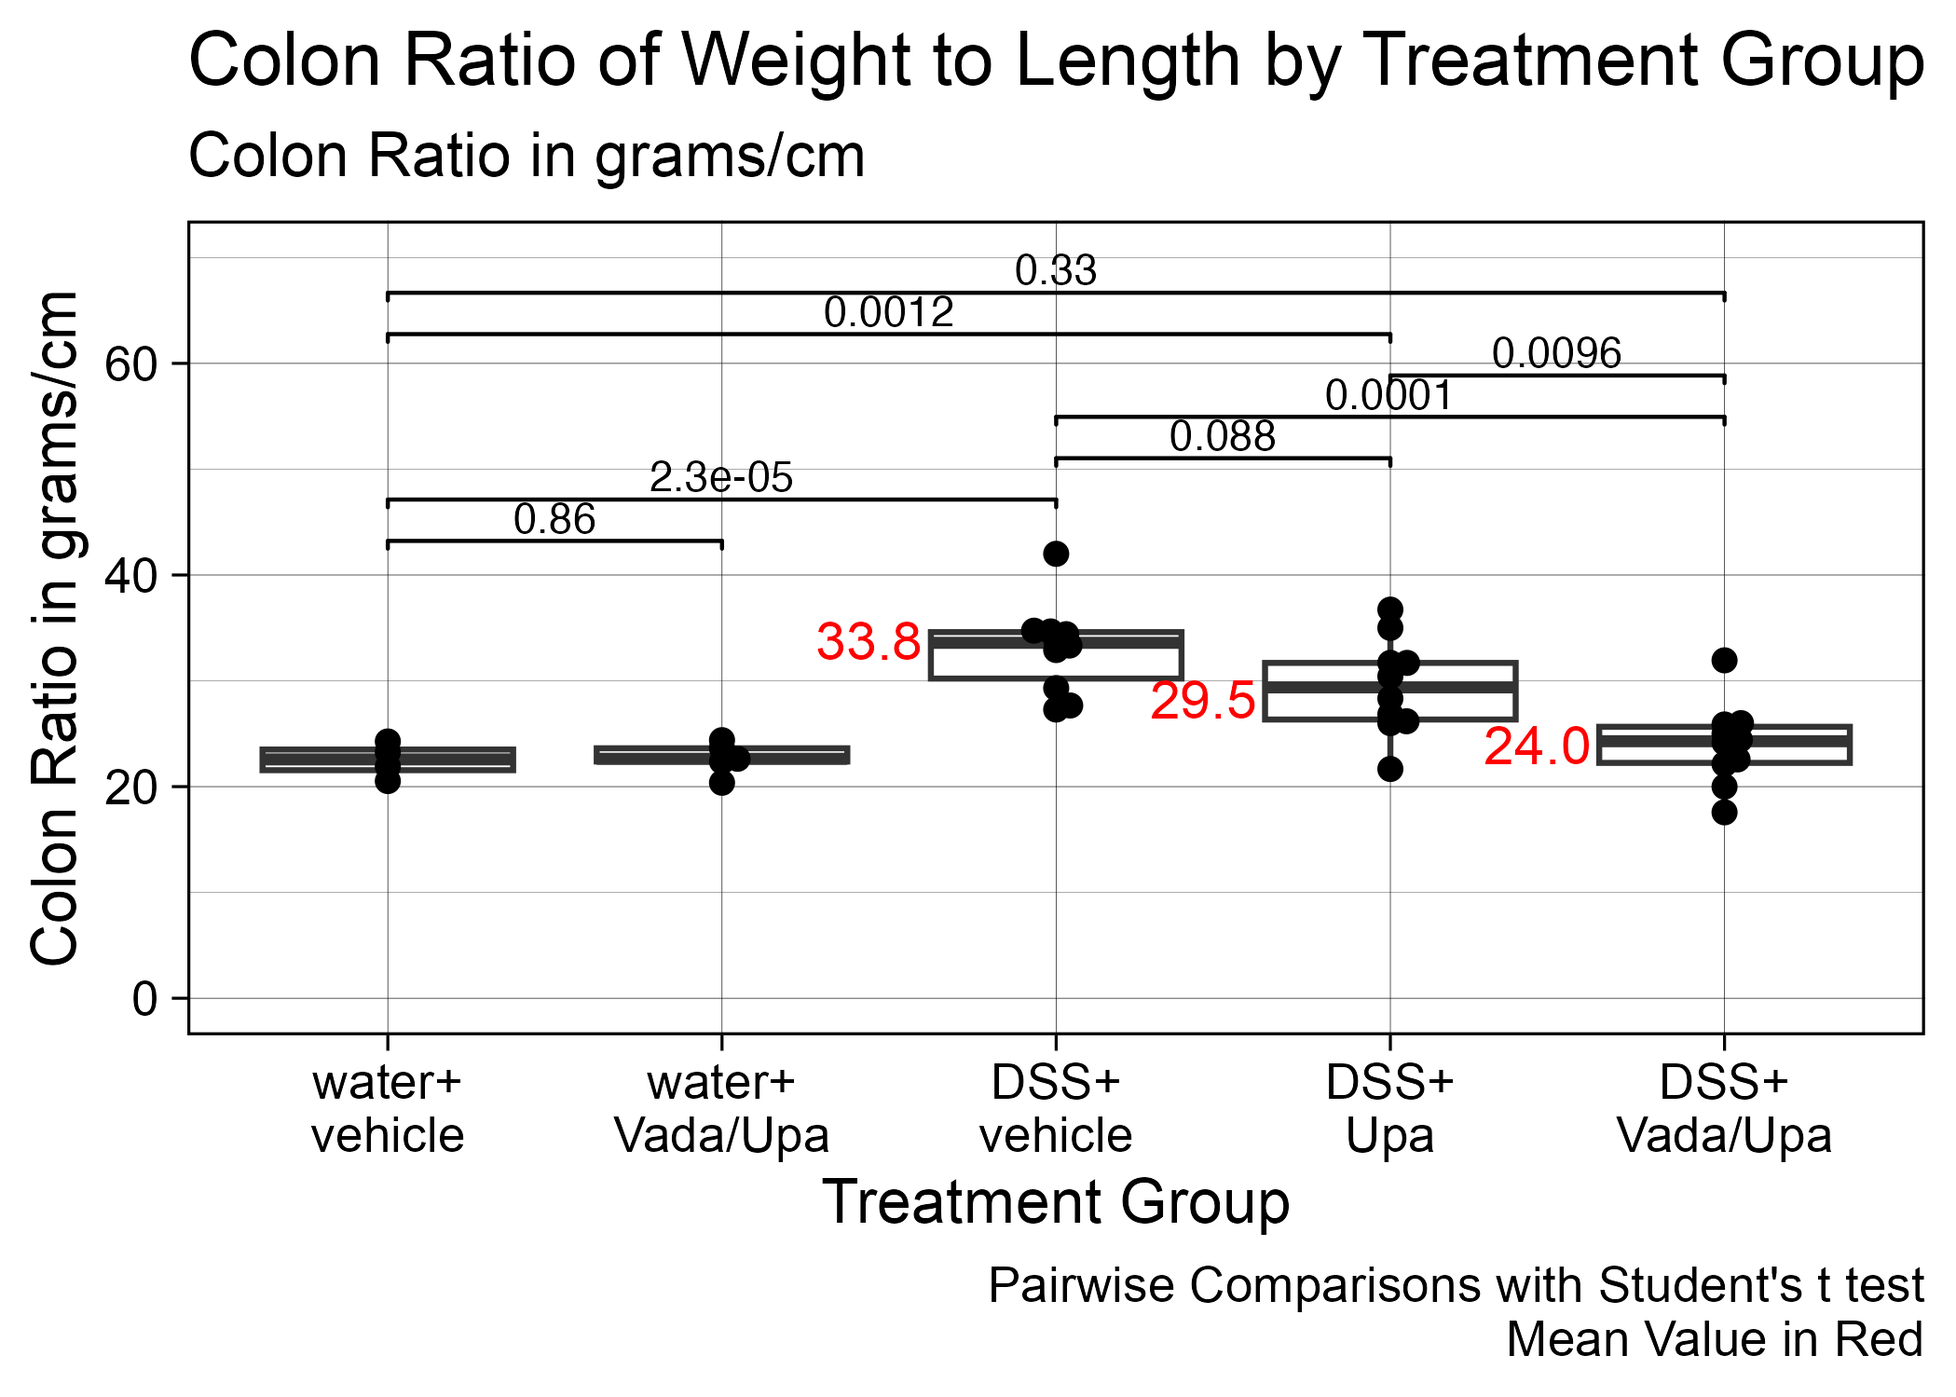
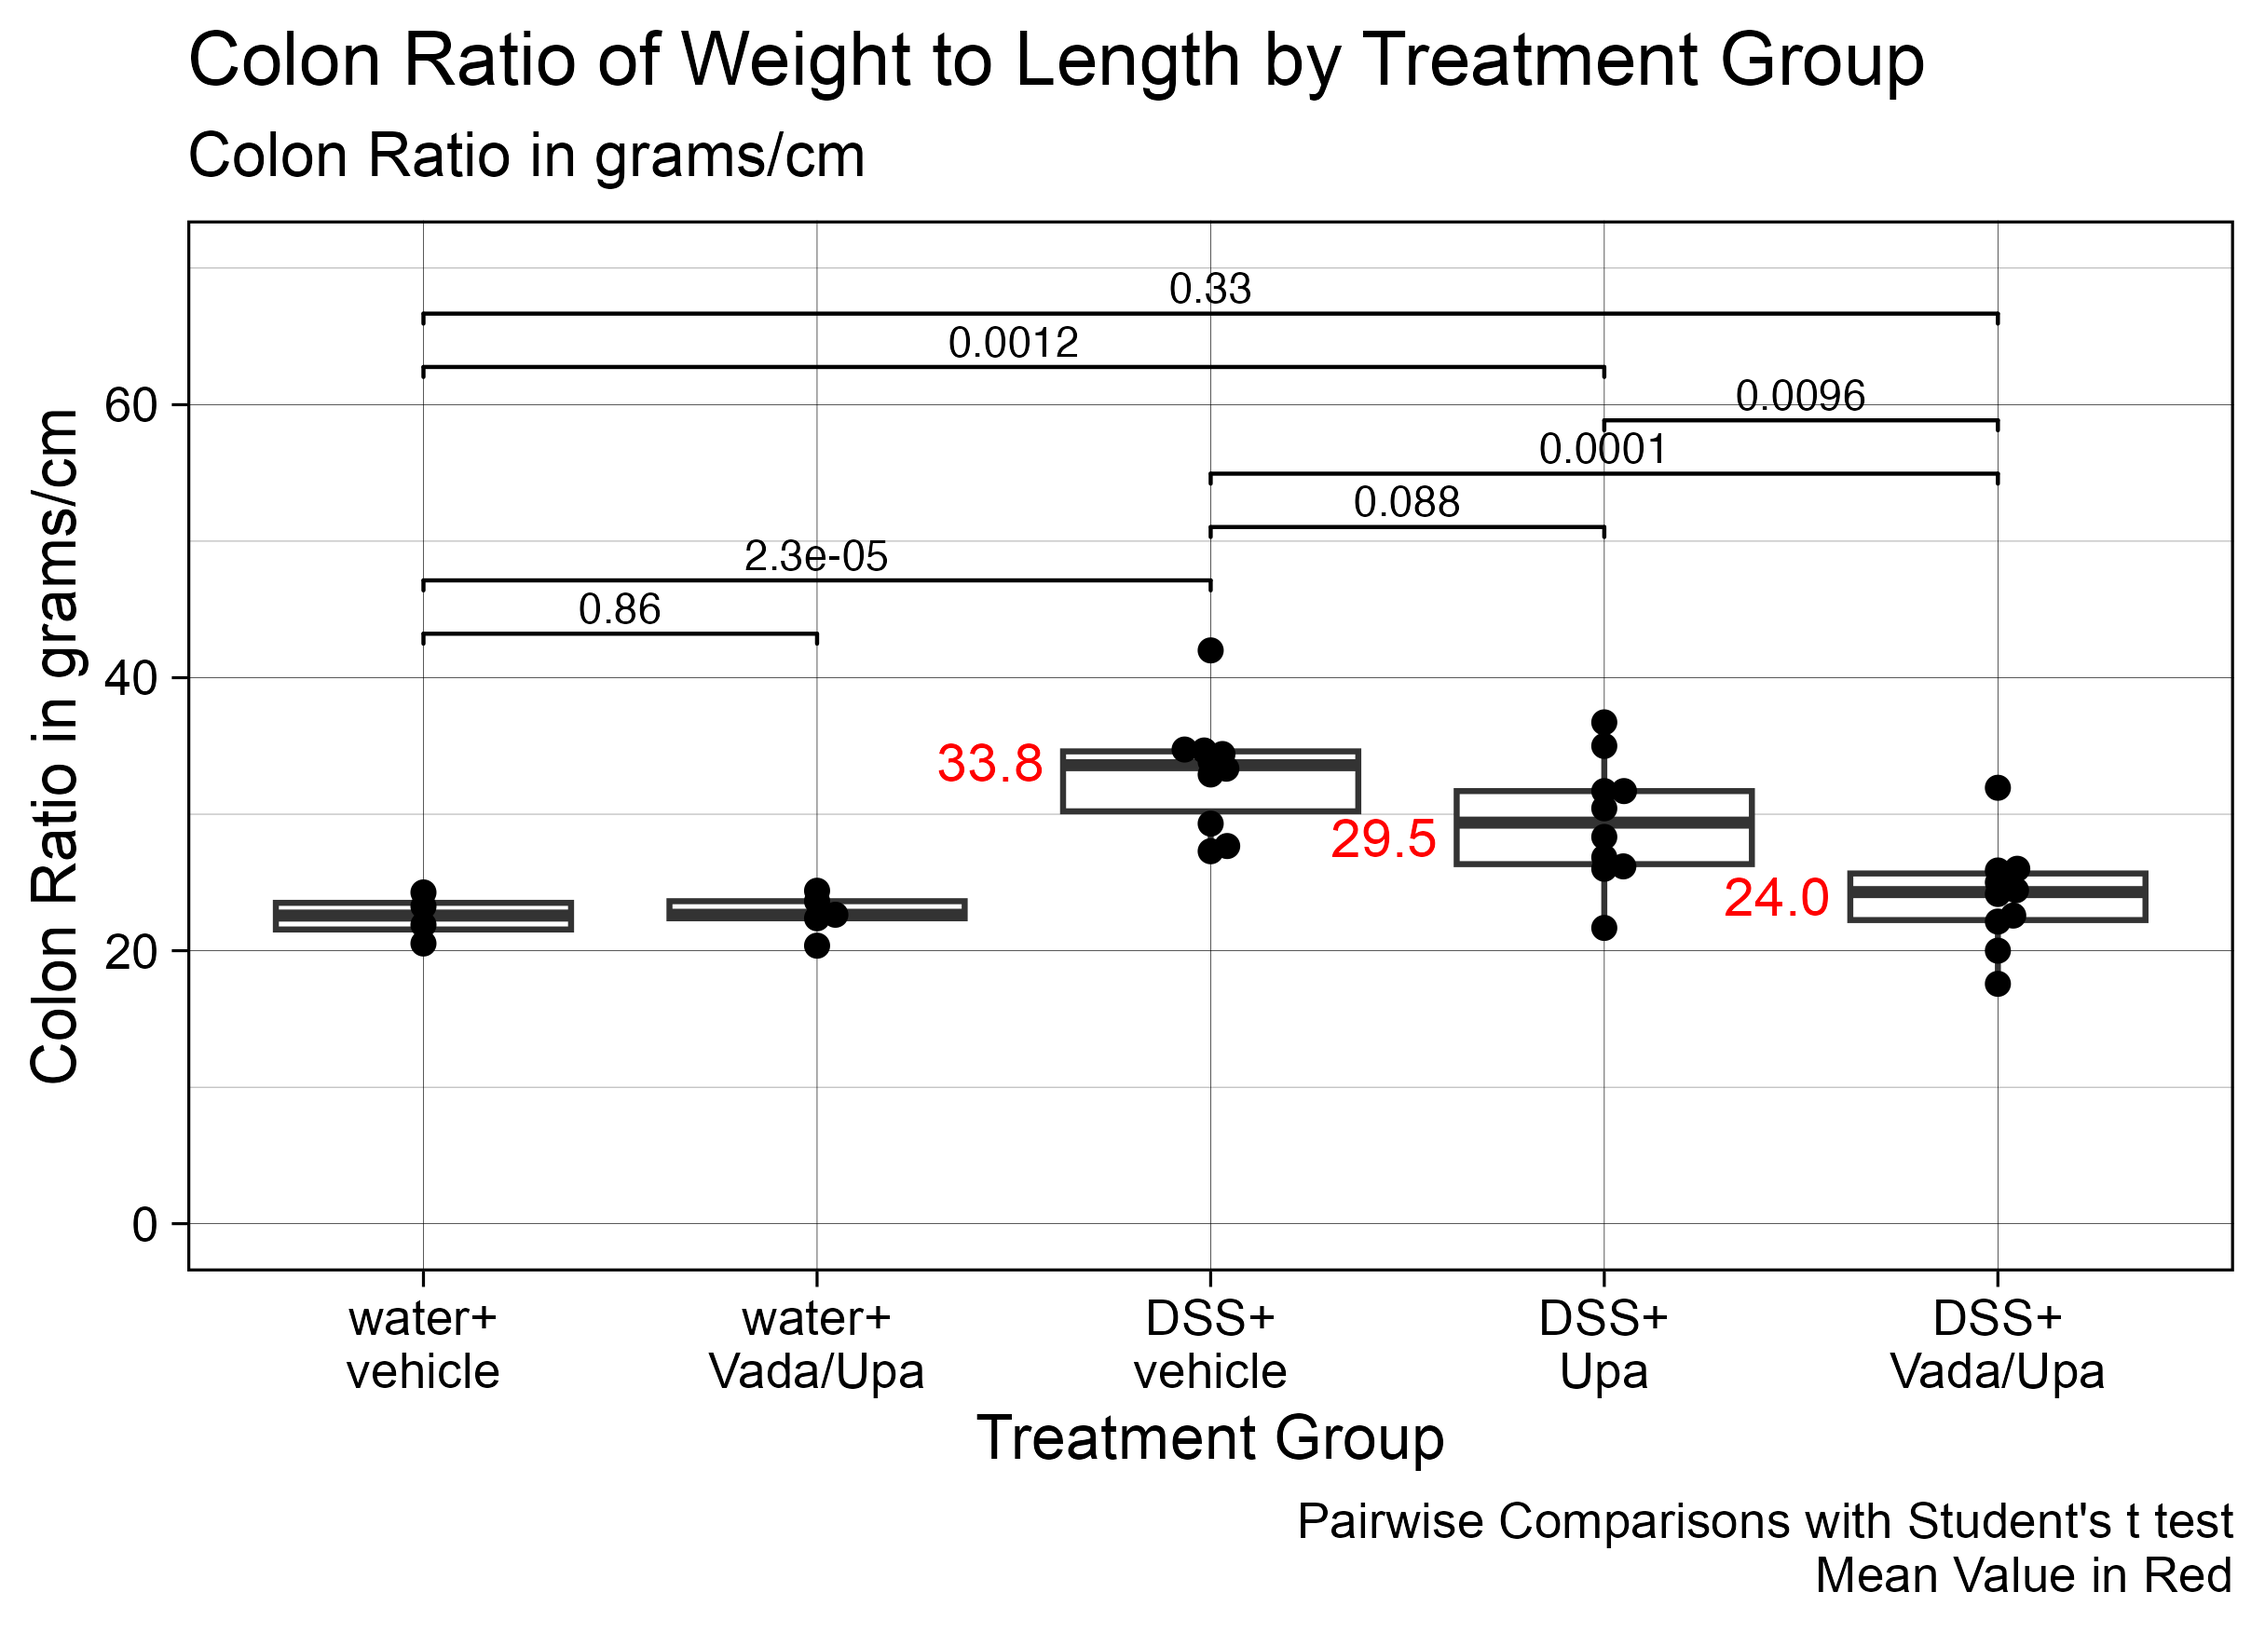
updated IED tot histo figure

diff --git a/upa-vada-mice2.html b/upa-vada-mice2.html
@@ -894,15 +894,15 @@ pre > code.sourceCode > span > a:first-child::before { text-decoration: underlin
 <span id="cb29-5"><a href="#cb29-5" aria-hidden="true" tabindex="-1"></a>  <span class="fu">geom_quasirandom</span>() <span class="sc">+</span></span>
 <span id="cb29-6"><a href="#cb29-6" aria-hidden="true" tabindex="-1"></a>   <span class="fu">labs</span>(<span class="at">x =</span> <span class="st">"Treatment Group"</span>,</span>
 <span id="cb29-7"><a href="#cb29-7" aria-hidden="true" tabindex="-1"></a>        <span class="at">y =</span> <span class="st">"IED (Inflammation, Edema, and Epithelial Damage)</span><span class="sc">\n</span><span class="st">Histology Score"</span>,</span>
-<span id="cb29-8"><a href="#cb29-8" aria-hidden="true" tabindex="-1"></a>        <span class="at">title =</span> <span class="st">"IED (Inflammation, Edema, and Epithelial Damage)</span><span class="sc">\n</span><span class="st">Histology Scores by Treatment Group"</span>,</span>
+<span id="cb29-8"><a href="#cb29-8" aria-hidden="true" tabindex="-1"></a>        <span class="at">title =</span> <span class="st">"IED (Inflammation, Edema, and Epithelial Damage)</span><span class="sc">\n</span><span class="st">Total Histology Scores by Treatment Group"</span>,</span>
 <span id="cb29-9"><a href="#cb29-9" aria-hidden="true" tabindex="-1"></a>        <span class="at">caption =</span> <span class="st">"Mean Values Shown in Red"</span>) <span class="sc">+</span></span>
 <span id="cb29-10"><a href="#cb29-10" aria-hidden="true" tabindex="-1"></a>   ggsignif<span class="sc">::</span><span class="fu">geom_signif</span>(<span class="at">comparisons =</span> <span class="fu">list</span>(</span>
 <span id="cb29-11"><a href="#cb29-11" aria-hidden="true" tabindex="-1"></a>    <span class="fu">c</span>(<span class="dv">1</span>,<span class="dv">3</span>), <span class="fu">c</span>(<span class="dv">3</span>,<span class="dv">4</span>), <span class="fu">c</span>(<span class="dv">3</span>,<span class="dv">5</span>), <span class="fu">c</span>(<span class="dv">4</span>,<span class="dv">5</span>), <span class="fu">c</span>(<span class="dv">1</span>,<span class="dv">4</span>),</span>
 <span id="cb29-12"><a href="#cb29-12" aria-hidden="true" tabindex="-1"></a>    <span class="fu">c</span>(<span class="dv">1</span>,<span class="dv">5</span>)),</span>
 <span id="cb29-13"><a href="#cb29-13" aria-hidden="true" tabindex="-1"></a>    <span class="at">test =</span> <span class="st">"t.test"</span>,</span>
-<span id="cb29-14"><a href="#cb29-14" aria-hidden="true" tabindex="-1"></a>    <span class="at">step_increase =</span> <span class="fl">0.10</span>) <span class="sc">+</span></span>
+<span id="cb29-14"><a href="#cb29-14" aria-hidden="true" tabindex="-1"></a>    <span class="at">step_increase =</span> <span class="fl">0.14</span>) <span class="sc">+</span></span>
 <span id="cb29-15"><a href="#cb29-15" aria-hidden="true" tabindex="-1"></a>  <span class="fu">scale_x_discrete</span>(<span class="at">labels =</span> <span class="fu">label_wrap</span>(<span class="dv">8</span>)) <span class="sc">+</span></span>
-<span id="cb29-16"><a href="#cb29-16" aria-hidden="true" tabindex="-1"></a>  <span class="fu">scale_y_continuous</span>(<span class="at">breaks =</span> <span class="fu">seq</span>(<span class="dv">0</span>, <span class="dv">12</span>, <span class="at">by =</span> <span class="dv">3</span>)) <span class="sc">+</span></span>
+<span id="cb29-16"><a href="#cb29-16" aria-hidden="true" tabindex="-1"></a>  <span class="fu">scale_y_continuous</span>(<span class="at">breaks =</span> <span class="fu">seq</span>(<span class="dv">0</span>, <span class="dv">15</span>, <span class="at">by =</span> <span class="dv">3</span>), <span class="at">limits =</span> <span class="fu">c</span>(<span class="dv">0</span>,<span class="dv">17</span>)) <span class="sc">+</span></span>
 <span id="cb29-17"><a href="#cb29-17" aria-hidden="true" tabindex="-1"></a>  <span class="fu">theme_linedraw</span>(<span class="at">base_size =</span> <span class="dv">16</span>, <span class="at">base_family =</span> <span class="st">"Arial"</span>) <span class="sc">+</span></span>
 <span id="cb29-18"><a href="#cb29-18" aria-hidden="true" tabindex="-1"></a>  <span class="fu">annotate</span>(<span class="st">"text"</span>, <span class="at">x =</span> <span class="fl">2.48</span>, <span class="at">y =</span> <span class="fl">5.4</span>, <span class="at">label =</span> <span class="st">"5.4"</span>, <span class="at">size =</span> <span class="dv">5</span>, <span class="at">color =</span> <span class="st">"red"</span>) <span class="sc">+</span></span>
 <span id="cb29-19"><a href="#cb29-19" aria-hidden="true" tabindex="-1"></a>  <span class="fu">annotate</span>(<span class="st">"text"</span>, <span class="at">x =</span> <span class="fl">3.48</span>, <span class="at">y =</span> <span class="fl">4.5</span>, <span class="at">label =</span> <span class="st">"4.5"</span>, <span class="at">size =</span> <span class="dv">5</span>, <span class="at">color =</span> <span class="st">"red"</span>) <span class="sc">+</span></span>
@@ -914,6 +914,13 @@ pre > code.sourceCode > span > a:first-child::before { text-decoration: underlin
 <p><img src="upa-vada-mice2_files/figure-html/unnamed-chunk-13-8.png" class="img-fluid figure-img" width="672"></p>
 </figure>
 </div>
+</div>
+<details class="code-fold">
+<summary>Code</summary>
+<div class="sourceCode cell-code" id="cb30"><pre class="sourceCode r code-with-copy"><code class="sourceCode r"><span id="cb30-1"><a href="#cb30-1" aria-hidden="true" tabindex="-1"></a><span class="fu">ggsave</span>(<span class="fu">here</span>(<span class="st">"images/tot_histo.png"</span>))</span></code><button title="Copy to Clipboard" class="code-copy-button"><i class="bi"></i></button></pre></div>
+</details>
+<div class="cell-output cell-output-stderr">
+<pre><code>Saving 7 x 5 in image</code></pre>
 </div>
 </div>
 </section>
